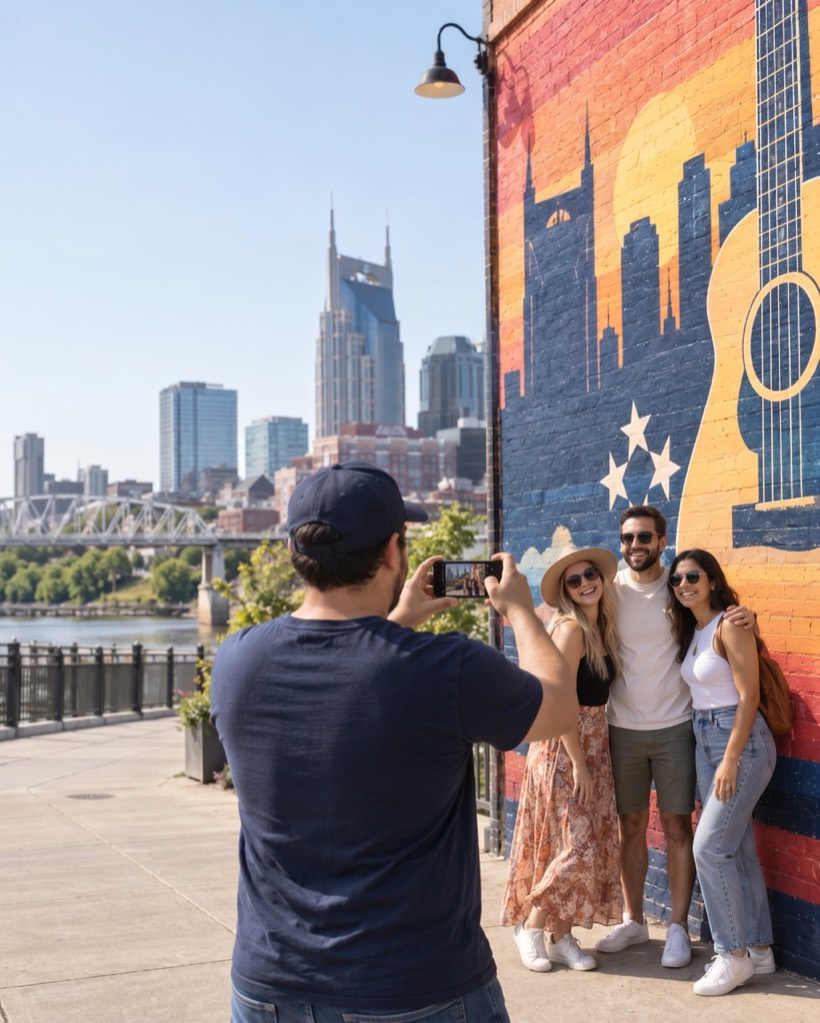
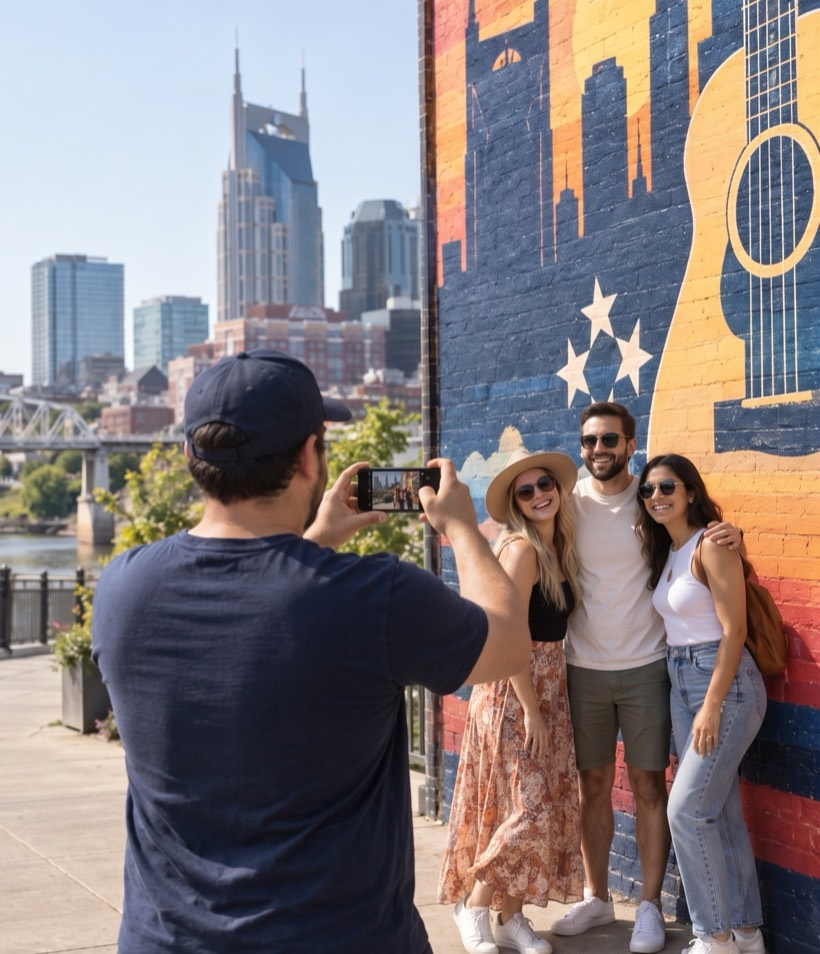
Reframe the hero photograph: less landscape, still unmistakably Nashville

diff --git a/become-a-paparazzi.html b/become-a-paparazzi.html
@@ -161,7 +161,7 @@
         </div>
 
         <figure class="hero__figure">
-          <img class="photo" src="assets/photo-nashville.jpg" alt="A Personal Paparazzi photographing three friends against a painted Nashville mural, with the downtown skyline and the river behind him." width="820" height="1023">
+          <img class="photo" src="assets/photo-nashville.jpg" alt="A Personal Paparazzi photographing three friends against a painted Nashville mural, with the downtown skyline behind him." width="820" height="954">
           <img class="hero__mascot" src="assets/elephant.svg" alt="" width="112" height="79" aria-hidden="true">
         </figure>
       </div>
